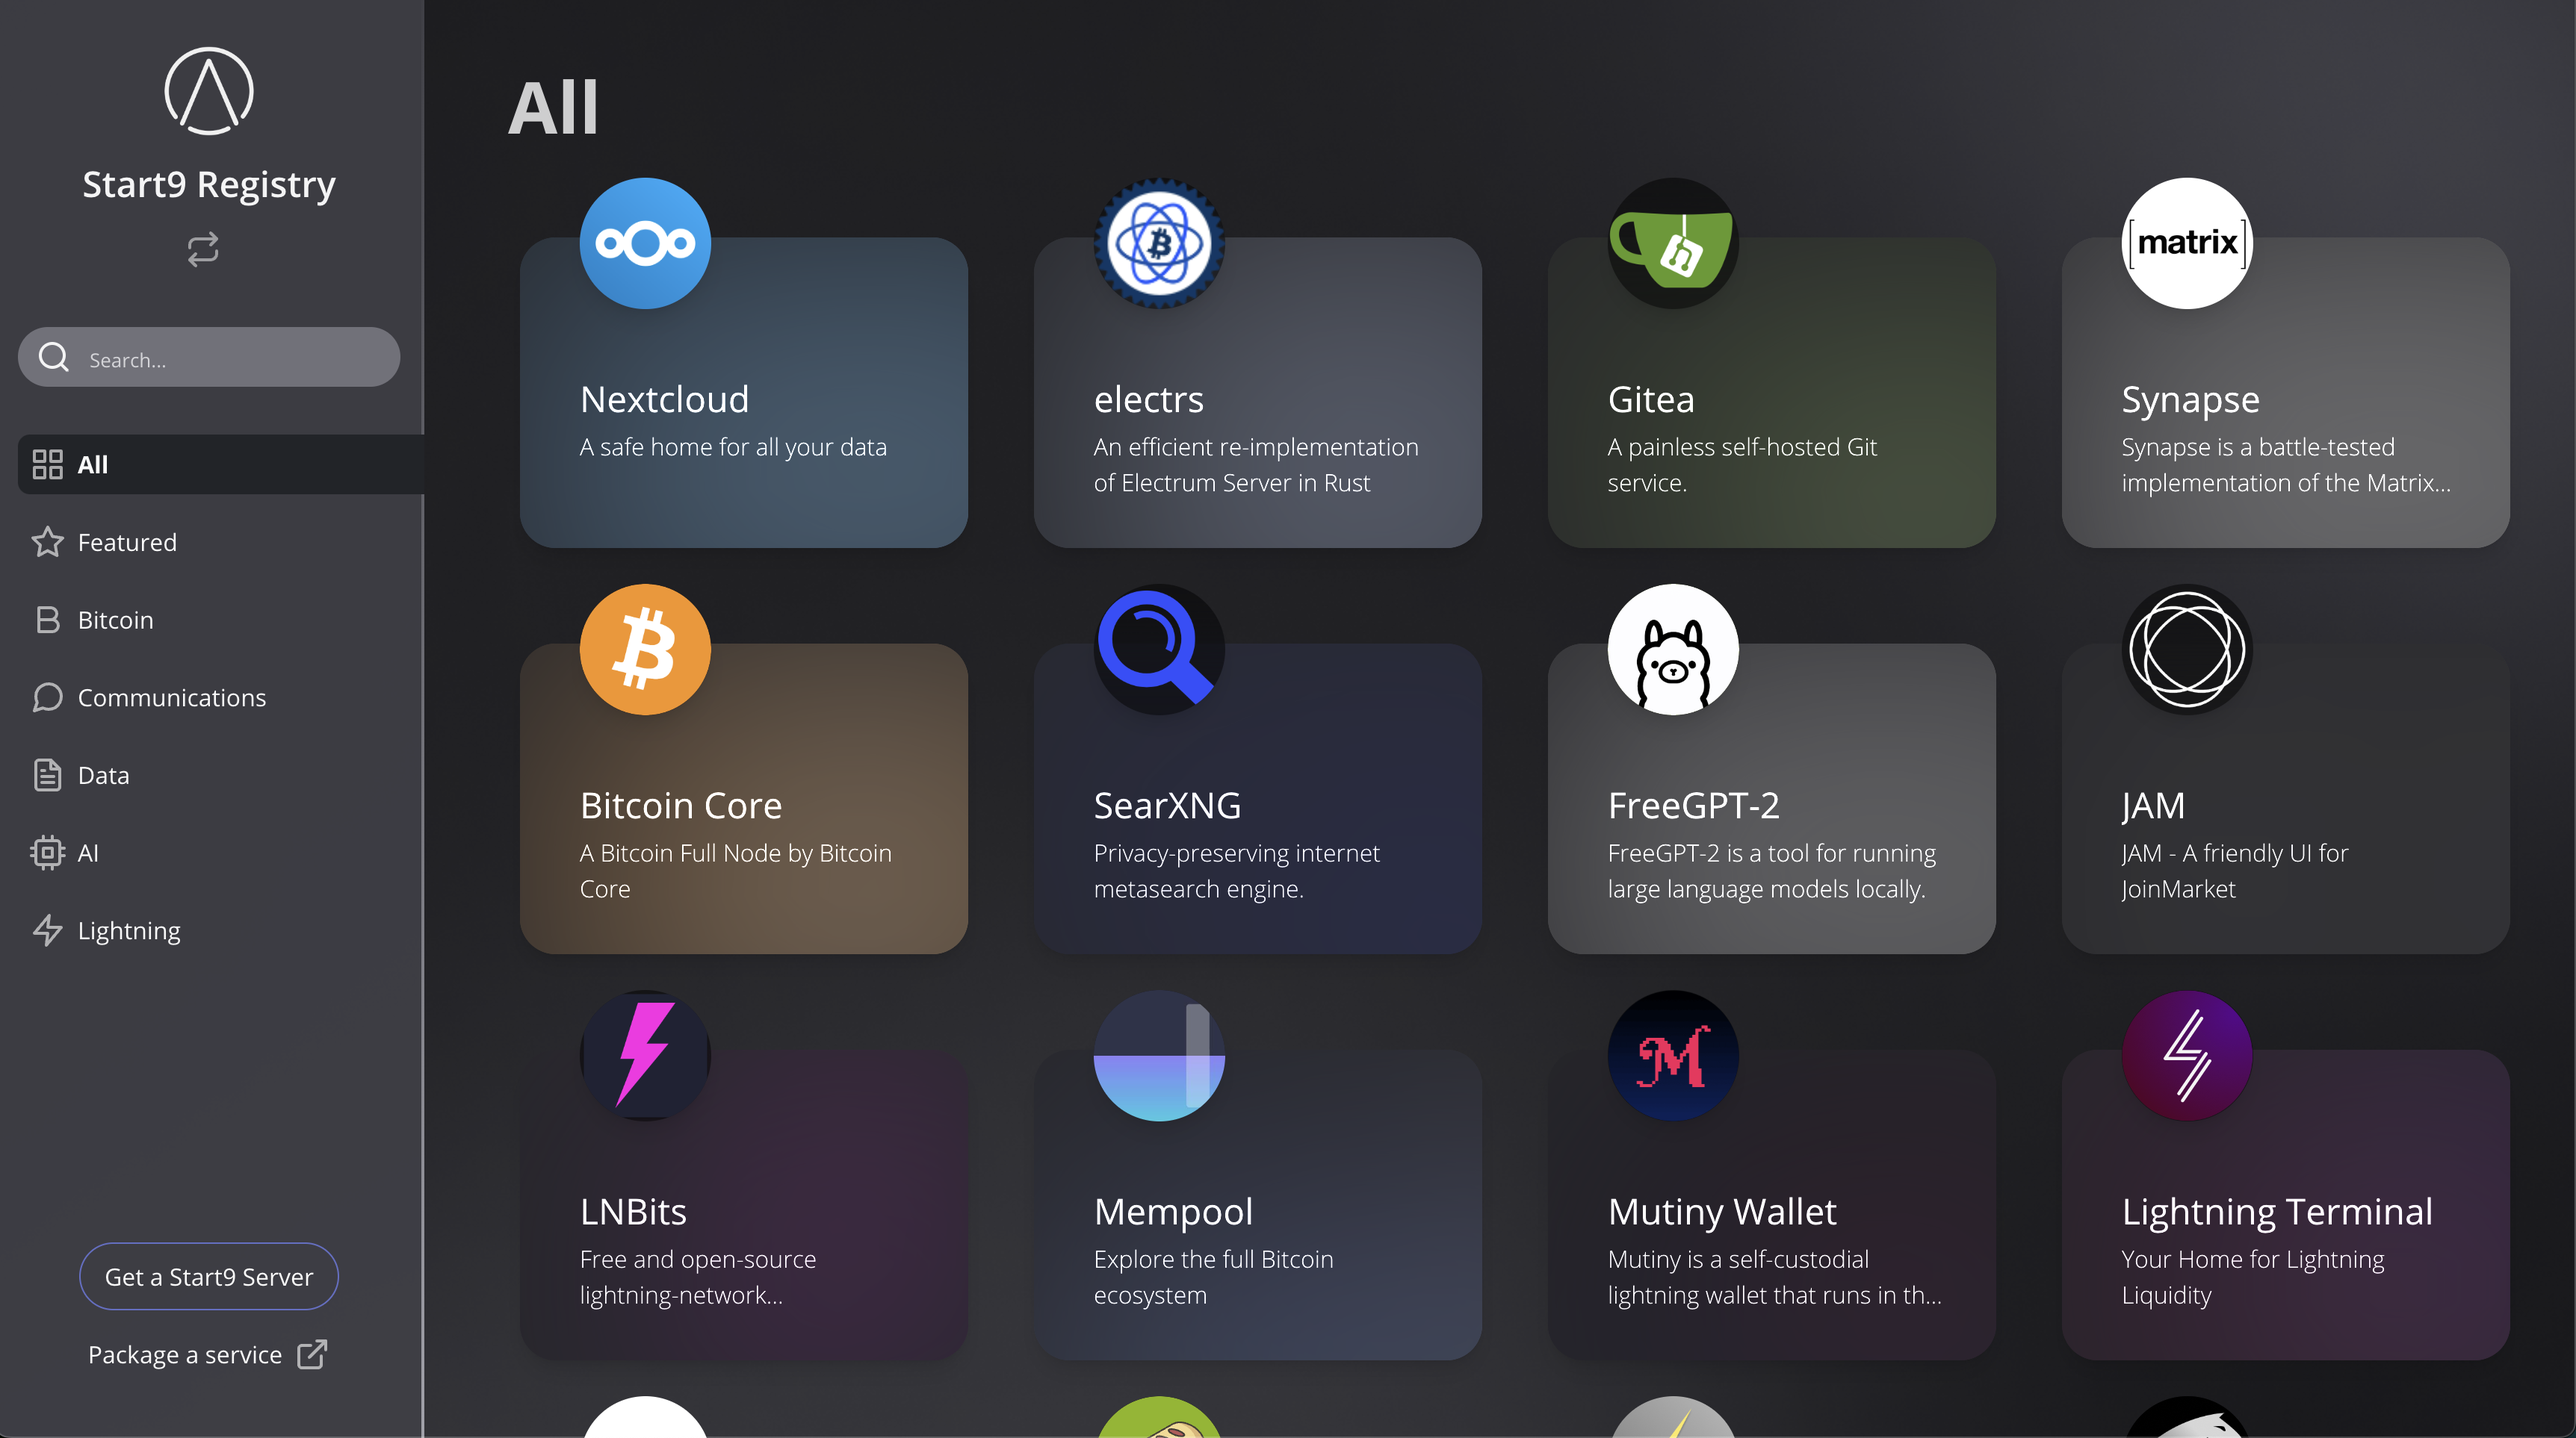
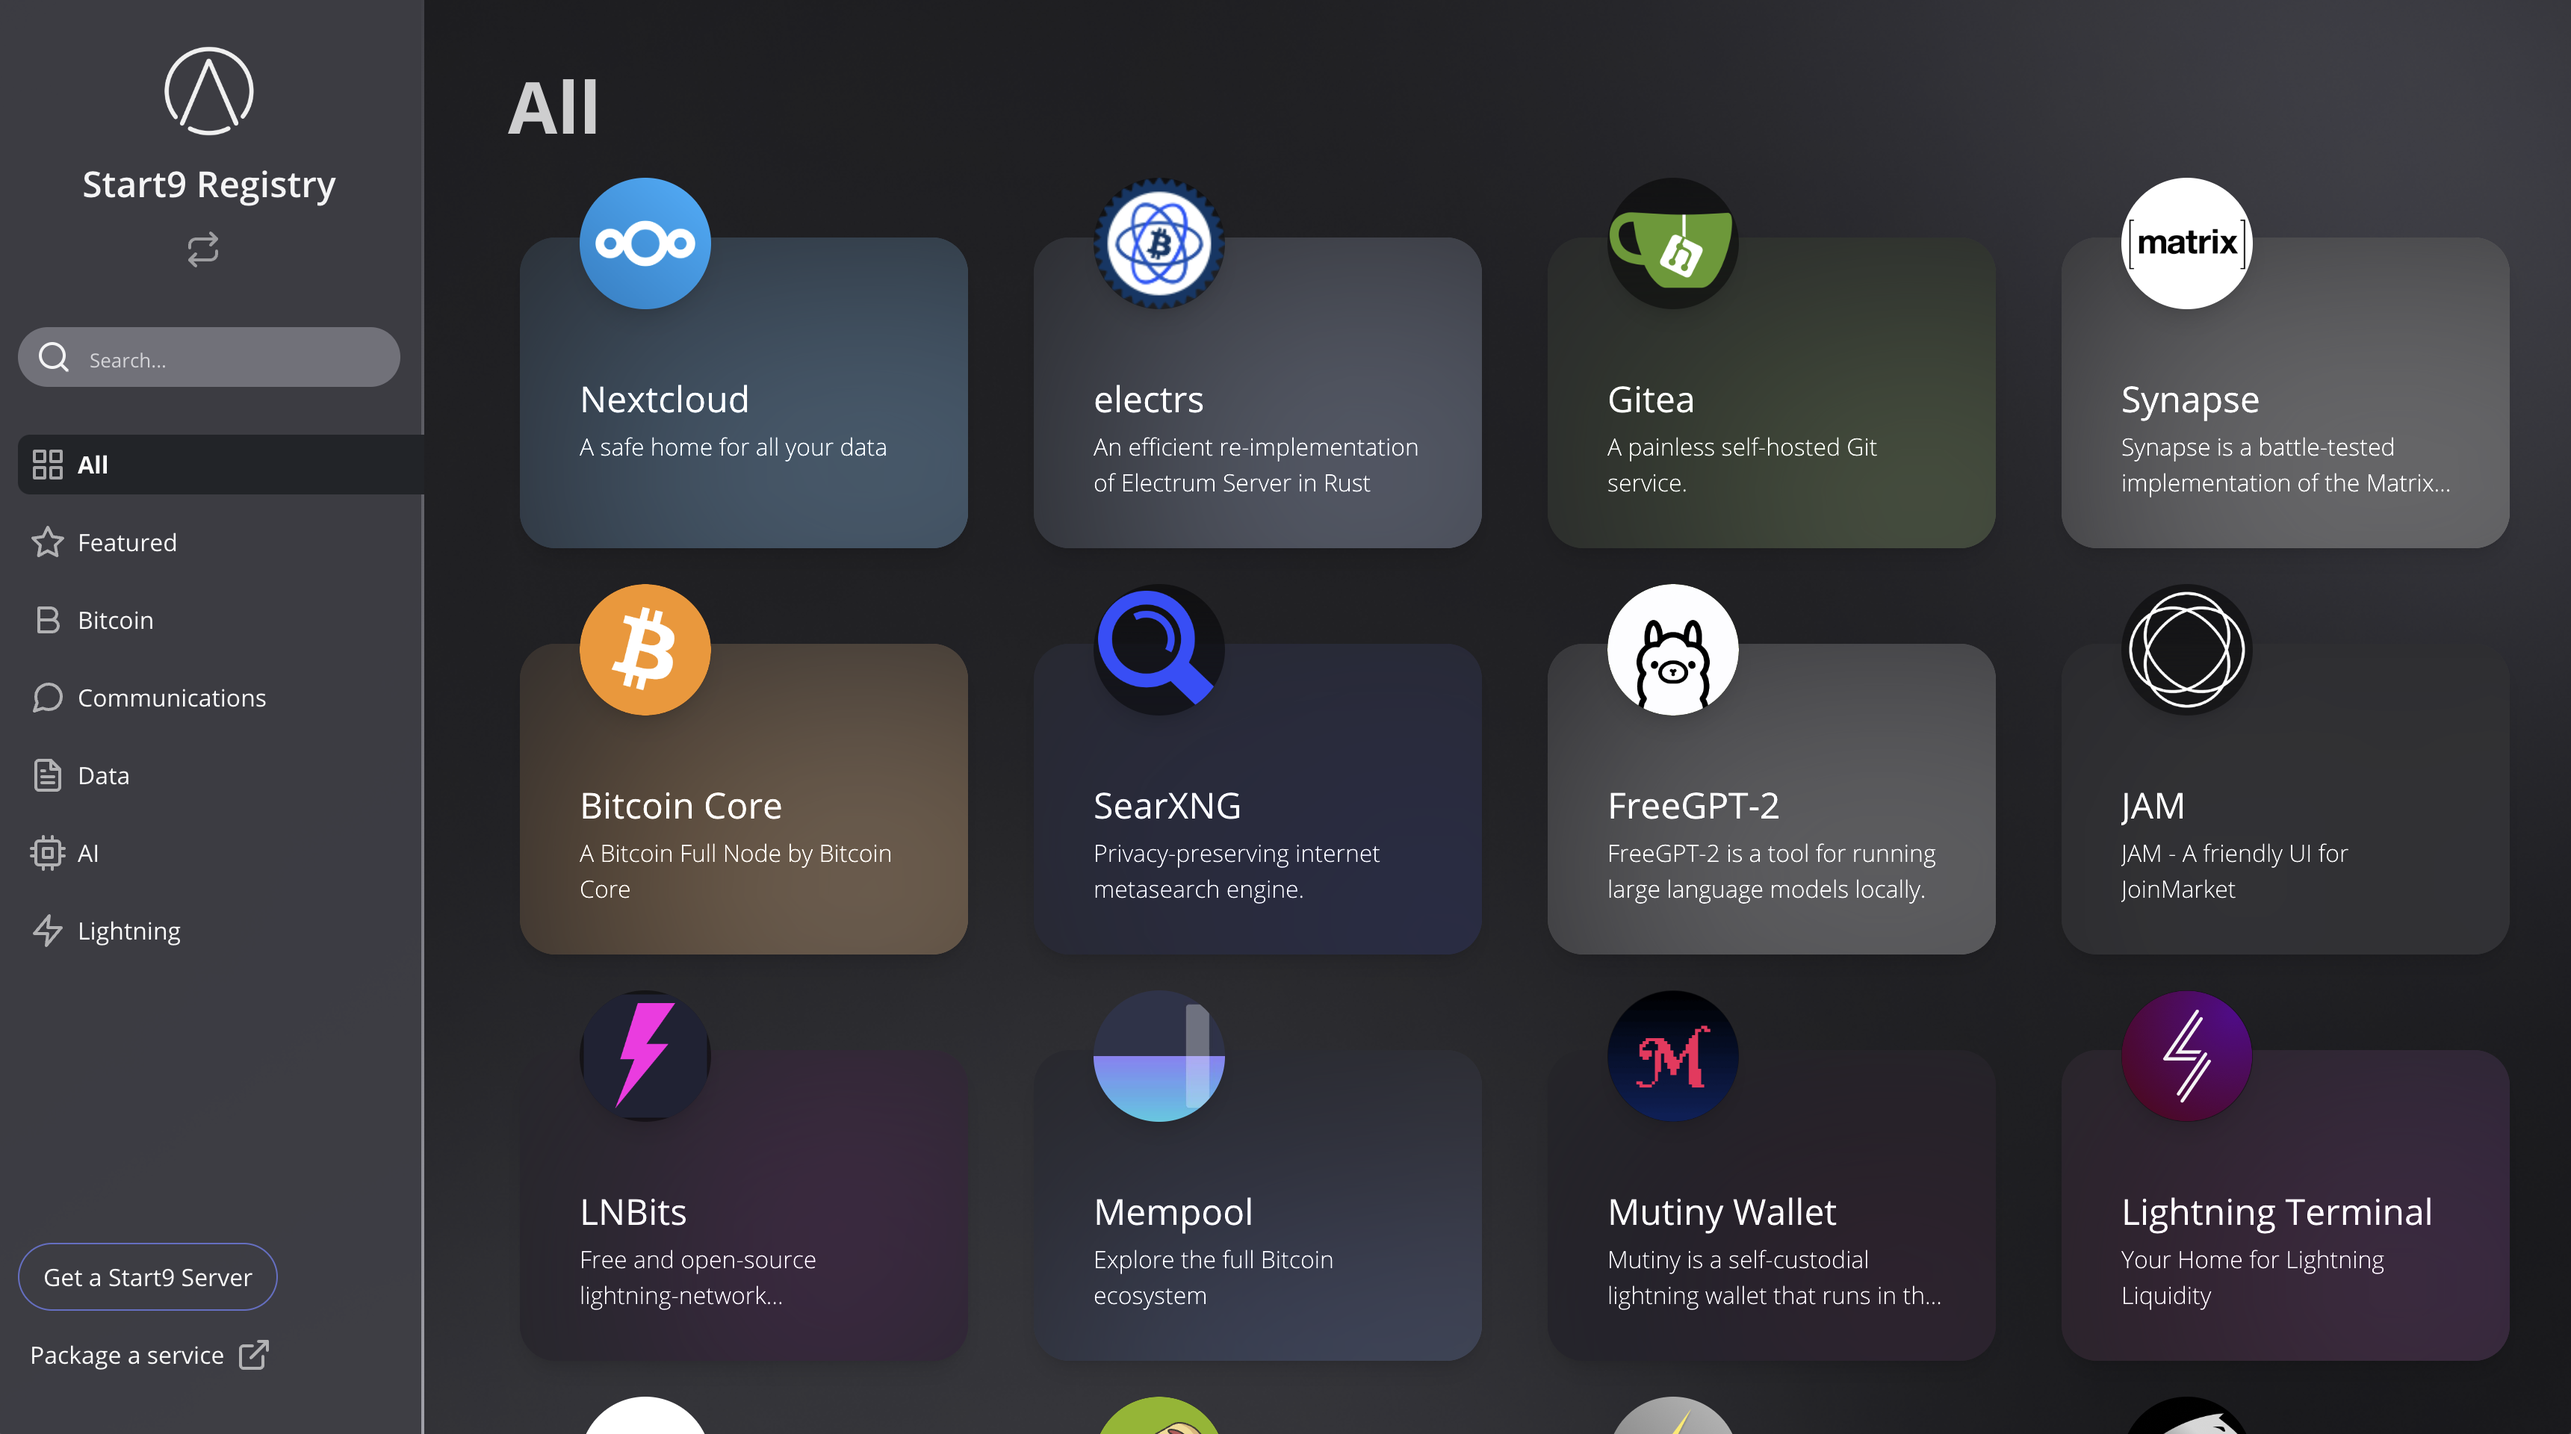
update meta and adjust store link

diff --git a/src/app/components/marketplace-menu.component.ts b/src/app/components/marketplace-menu.component.ts
@@ -58,6 +58,10 @@ import { TuiAppearanceModule, TuiIconModule } from '@taiga-ui/experimental'
         padding: 0;
       }
 
+      :host ::ng-deep .nav-desktop-container div a {
+        justify-content: unset;
+      }
+
       ::ng-deep button {
         background-color: transparent;
         background-image: none;
@@ -110,6 +114,7 @@ import { TuiAppearanceModule, TuiIconModule } from '@taiga-ui/experimental'
         transition-timing-function: cubic-bezier(0.4, 0, 0.2, 1);
         transition-delay: 75ms;
         transition-duration: 300ms;
+        font-weight: 400;
 
         @media (max-width: 768px) {
           border: 1px solid rgb(114, 133, 255, 1);

diff --git a/src/index.html b/src/index.html
@@ -4,7 +4,6 @@
     <meta charset="utf-8" />
     <meta name="og:type" content="website" />
     <meta name="og:title" content="Start9 Marketplace" />
-    <meta name="og:url" content="https://marketplace.start9.com/" />
     <meta
       property="og:image"
       content="https://marketplace.start9.com/img/thumbnail.png" />
